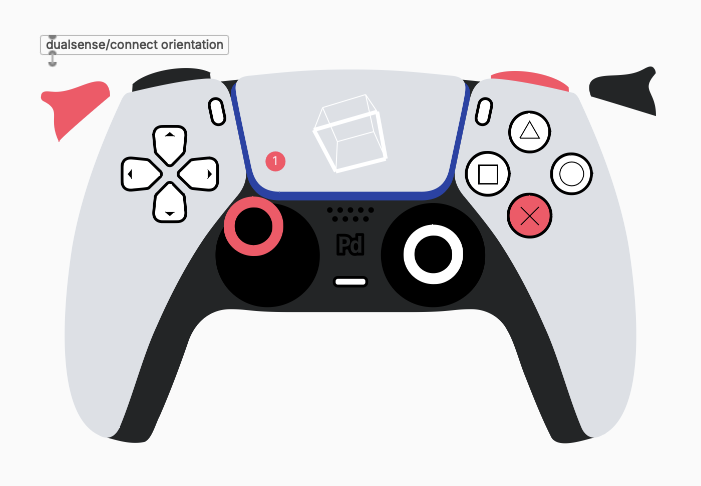
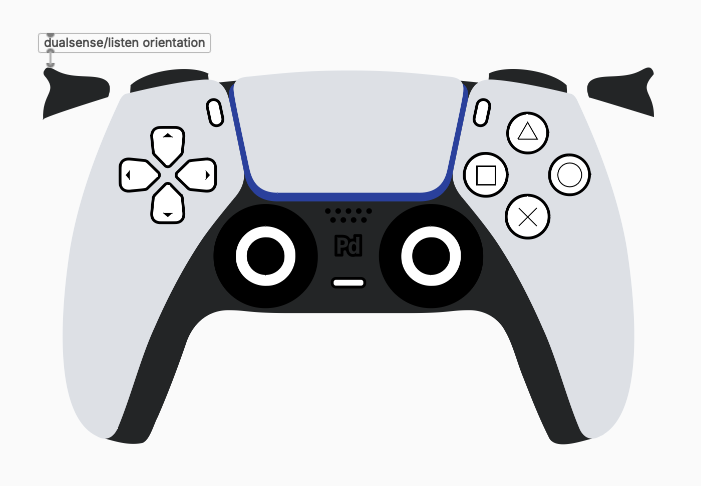
rename connect to listen

diff --git a/README.md b/README.md
@@ -9,7 +9,7 @@ Pd abstraction and Pd-Lua object to connect and display Sony DualSense controlle
 
 * put files in `/dualsense` folder in on of Pd's paths
 * create display object via `[dualsense/display]`
-* create connection object via `[dualsense/connect]` - its output can be connected to the display object. optional argument `orientation` activates tracking of movement and orientation
+* create hid reader object via `[dualsense/listen]` - its output can be connected to the display object. optional argument `orientation` activates tracking of movement and orientation
 * requires a bunch of externals ... pdlua, hidraw, command (maybe more - should all be on deken)
 
 ## todos
